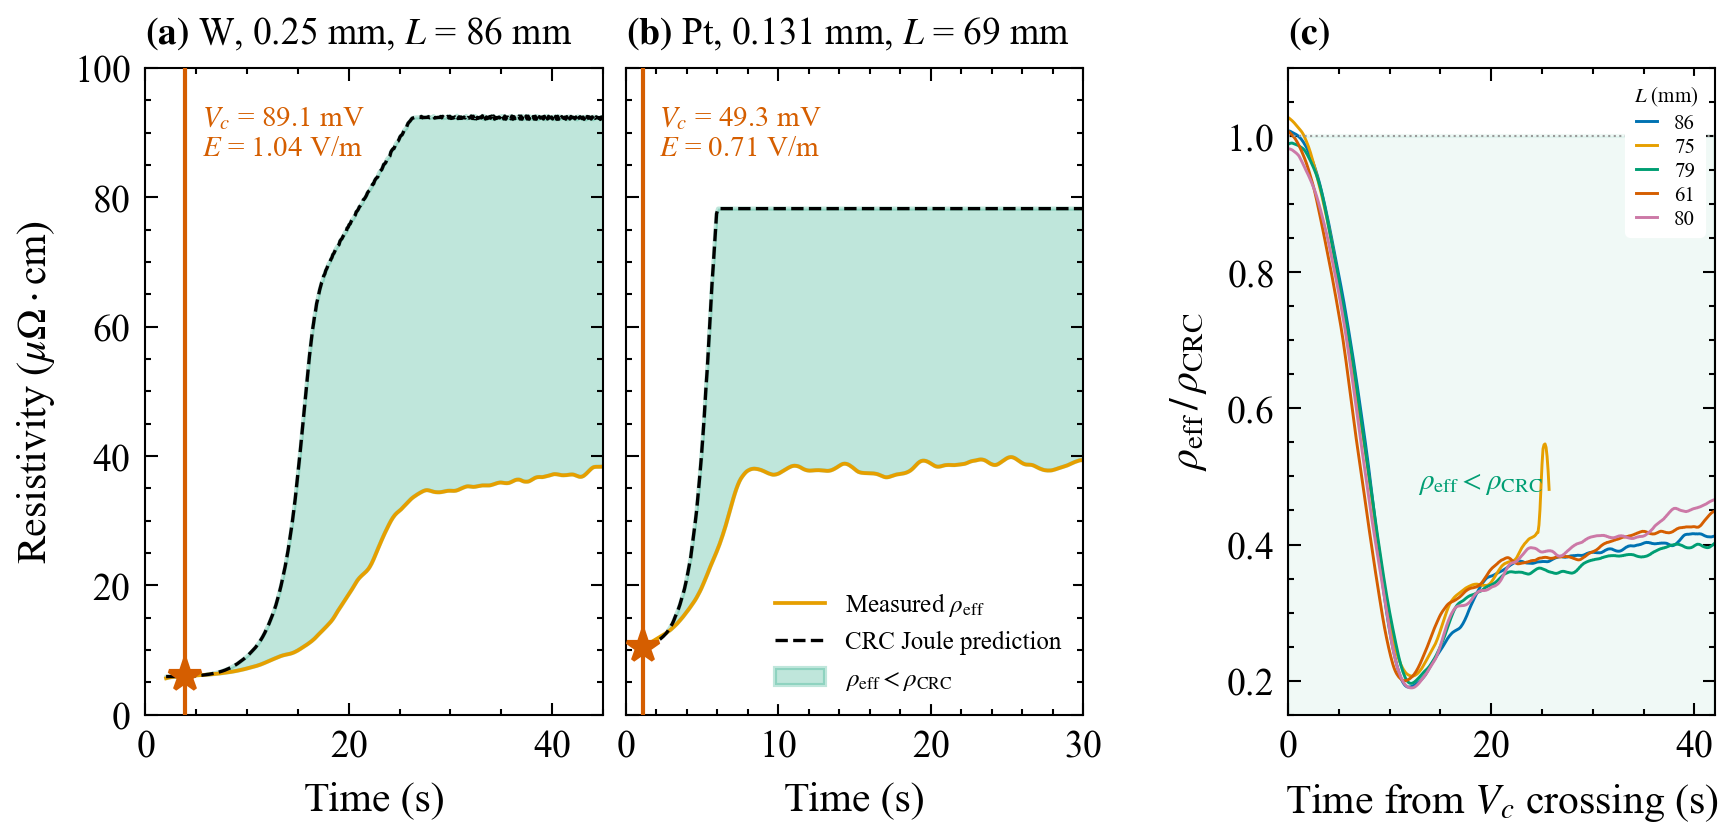
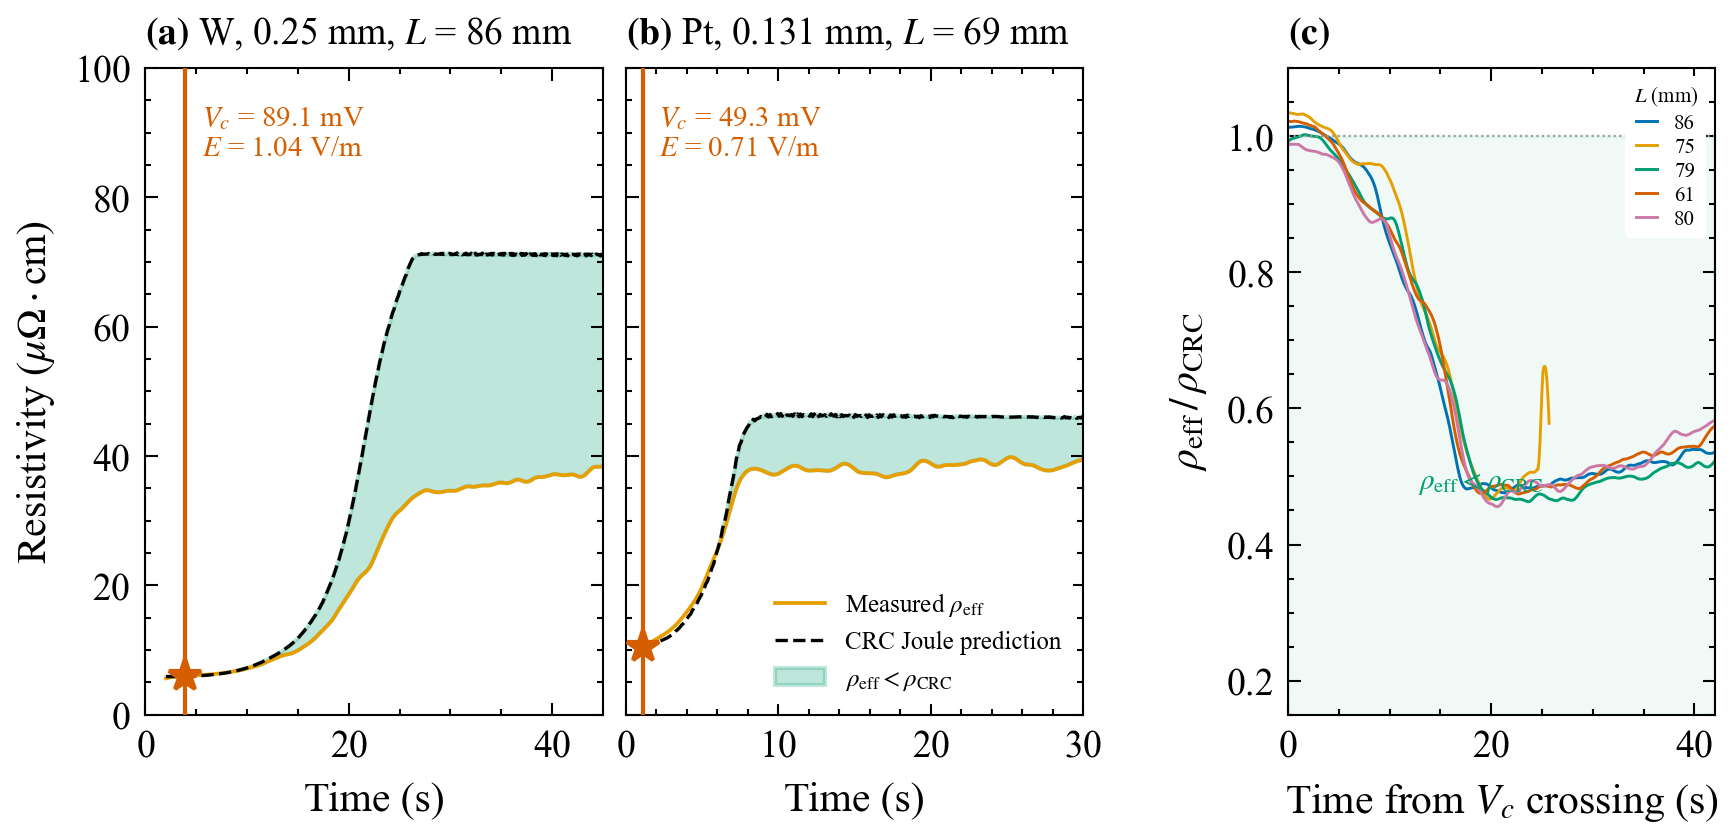
Add Churchill-Chu natural convection to thermal model (Supplemental Eq. 1, Term 4)
The transient thermal baseline was missing the natural convection loss
term described in the paper. Both generate_figure2.py and iv_analysis.py
now include the full four-term energy balance: Joule heating, radiation,
axial conduction with diffusion ramp, and natural convection via the
Churchill-Chu correlation with temperature-dependent air properties.
Figure 2 regenerated with the complete model.

Made-with: Cursor

diff --git a/fig2-reproducibility/analysis/iv_analysis.py b/fig2-reproducibility/analysis/iv_analysis.py
@@ -198,8 +198,18 @@ def compute_thermal_rho_vs_J(J_array, material, wire_diameter_mm, wire_length_mm
         kappa_T = kappa_func(T_grid)
         radiation = eps_T * SIGMA_SB * (T_grid**4 - T_ambient**4) * perimeter_over_area
         conduction = kappa_T * (T_grid - T_ambient) * 8.0 / L_m**2
+        dT_air = np.maximum(T_grid - T_ambient, 0)
+        Tf = (T_grid + T_ambient) / 2
+        nu_air = 1.5e-5 * (Tf / 300) ** 1.7
+        k_air_v = 0.026 * (Tf / 300) ** 0.8
+        beta_air = 1.0 / Tf
+        Ra = 9.81 * beta_air * dT_air * d_m**3 / nu_air**2 * 0.71
+        cc_denom = (1 + (0.559 / 0.71) ** (9.0 / 16)) ** (8.0 / 27)
+        Nu = (0.60 + 0.387 * np.maximum(Ra, 0) ** (1.0 / 6) / cc_denom) ** 2
+        h_conv = Nu * k_air_v / d_m
+        convection = h_conv * dT_air * perimeter_over_area
 
-        balance = joule - radiation - conduction
+        balance = joule - radiation - conduction - convection
 
         # Find zero crossing (Joule = losses)
         sign_changes = np.where(np.diff(np.sign(balance)))[0]

diff --git a/fig2-reproducibility/generate_figure2.py b/fig2-reproducibility/generate_figure2.py
@@ -264,7 +264,20 @@ def load_and_process(run, bin_dt=0.1):
         alpha_T = kap / (rm * cpT)
         df = min(1.0, 2.0 * np.sqrt(alpha_T * t_el) / L)
         cond = kap * (Tk - 300) * 8.0 / L ** 2 * df
-        T_w[k + 1] = max(300, min(Tk + (joule - rad - cond) / (rm * cpT) * dt, Tm))
+        dT_air = Tk - 300
+        if dT_air > 0:
+            Tf = (Tk + 300) / 2
+            nu_air = 1.5e-5 * (Tf / 300) ** 1.7
+            k_air = 0.026 * (Tf / 300) ** 0.8
+            beta_air = 1.0 / Tf
+            Ra = 9.81 * beta_air * dT_air * d_m ** 3 / nu_air ** 2 * 0.71
+            cc_denom = (1 + (0.559 / 0.71) ** (9.0 / 16)) ** (8.0 / 27)
+            Nu = (0.60 + 0.387 * Ra ** (1.0 / 6) / cc_denom) ** 2
+            h_conv = Nu * k_air / d_m
+            conv = h_conv * dT_air * P_A
+        else:
+            conv = 0.0
+        T_w[k + 1] = max(300, min(Tk + (joule - rad - cond - conv) / (rm * cpT) * dt, Tm))
 
     rho_crc = np.array([float(rf(Ti)) for Ti in T_w]) * scale
 
